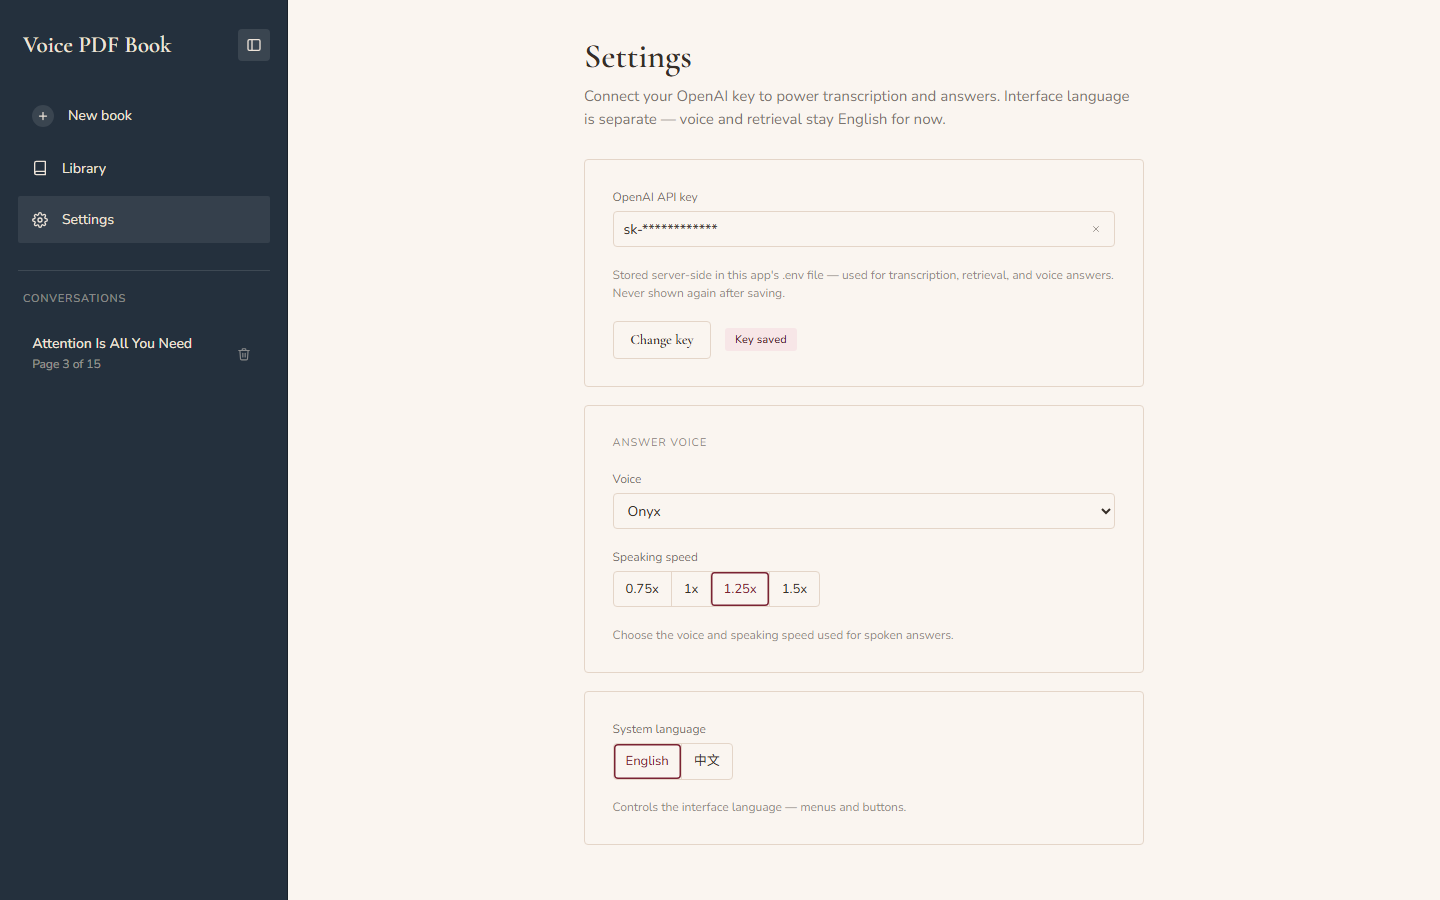
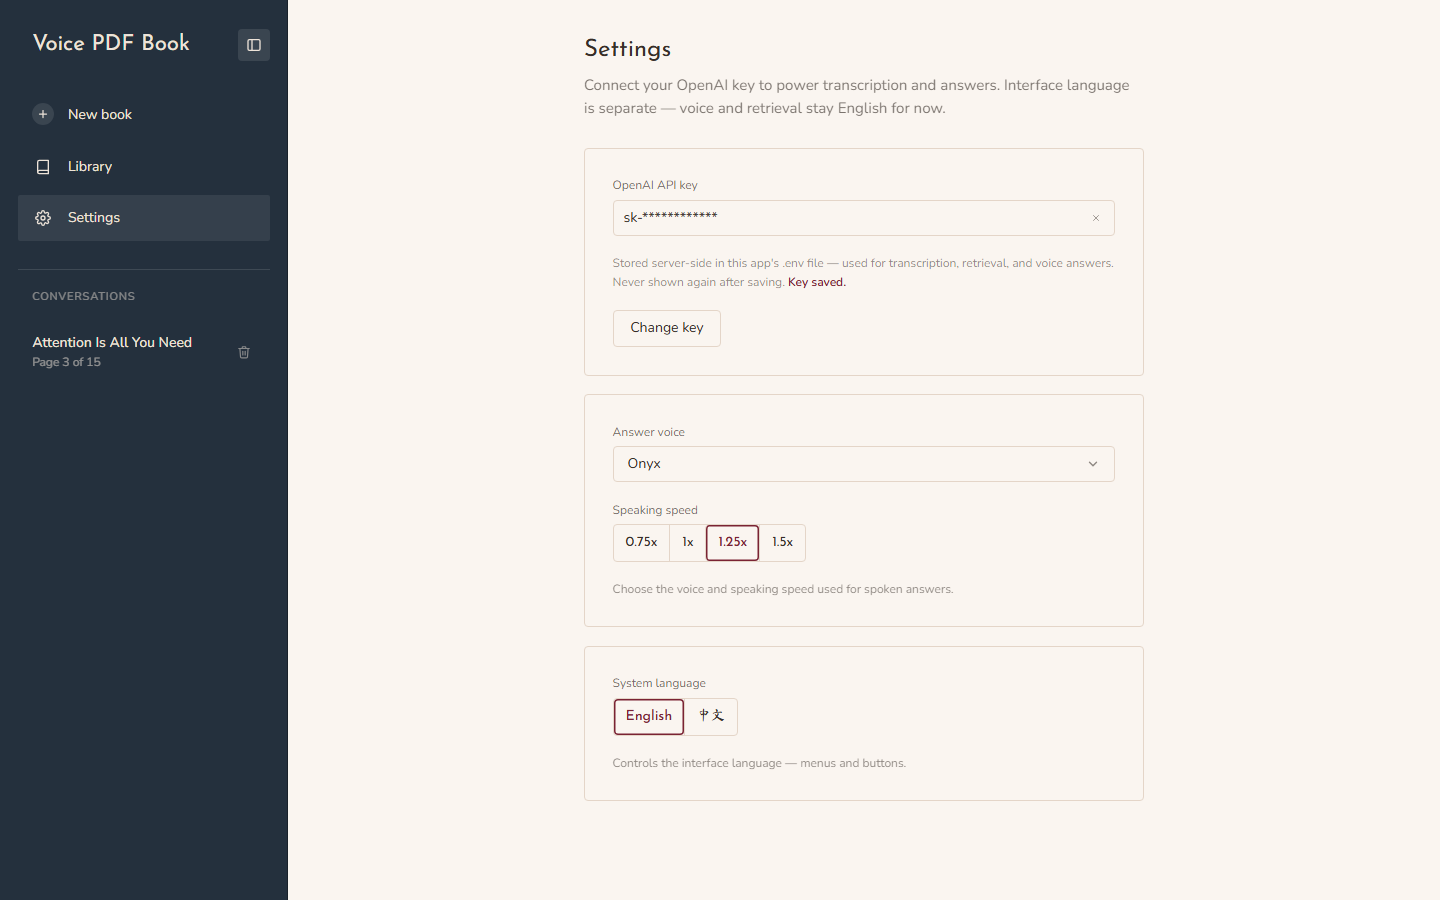
Update README and screenshots for the new UI
Retake all four screenshots, show them one per row, and note where the answer
tone lives. CLAUDE.md's chat-view description now matches the redesigned page.

diff --git a/CLAUDE.md b/CLAUDE.md
@@ -402,11 +402,14 @@ Key structural/visual points to preserve:
   (each entry deletable).
 - Library view: grid of book cards (cover, title, author, page-count tag, progress tag), search
   bar, "Upload PDF" button.
-- Chat view: header shows the open book + current chapter, plus an **"Answer tone" selector**
-  (Concise / Conversational / Scholarly) driving `conversations.answer_tone`. Split panel: left
-  side shows the actual PDF page (rendered image, or styled text excerpt when available, with
-  prev/next page nav); right side is the chat thread. Assistant messages show a citation tag
-  (e.g. "Section 3.2.2, p. 4") and a scrubbable audio player (play/pause, progress bar, duration).
+- Chat view: no top bar -- the sidebar is the only navigation. Split panel (default 50/50,
+  draggable divider): left side shows the actual PDF page (rendered image, with prev/next page
+  nav) under the open book's title and current chapter (top-left); right side is the chat thread
+  and composer. The **"Answer tone" selector** (Concise / Conversational / Scholarly, driving
+  `conversations.answer_tone`) is a compact pill group at the top-left of the chat area,
+  mirroring the book title on the PDF side. Your messages are solid-burgundy bubbles; assistant messages
+  are paper-style cards with clickable citation pills ("3 Model Architecture, p. 3-4", jumps the
+  PDF to that page) and a scrubbable audio player (play/pause, progress bar, duration).
 - Upload dialog: drag-and-drop PDF, "PDF only · up to 200 pages" hint.
 - Settings view, top to bottom: OpenAI API key card (matching the mockup's position at the top) —
   unlike the mockup's copy (which claims the key is "stored only on this device"), the real

diff --git a/README.md b/README.md
@@ -37,15 +37,23 @@ flowchart LR
   older ones, so follow-ups like "why not?" resolve correctly, even right after a refusal.
 - **Citations.** Every answer lists the chapters and pages it drew on; click one to jump the
   PDF viewer to that page.
-- **Answer tone.** Switch between Concise, Conversational and Scholarly per conversation.
+- **Answer tone.** Switch between Concise, Conversational and Scholarly per conversation, from the pills at the top of the chat.
 - **Configurable at runtime.** The OpenAI key, voice and speaking speed are set from the
   Settings page and take effect immediately, with no restart and no hand-editing of `.env`.
 
 ## Screenshots
 
-| Library | Upload |
-|---|---|
-| ![Library](docs/screenshots/library.png) | ![Upload dialog](docs/screenshots/upload.png) |
+### Library
+
+Each book is a card with its first page as the cover.
+
+![Library: each book's first page is its cover](docs/screenshots/library.png)
+
+### Upload
+
+![Upload dialog: drag and drop a PDF](docs/screenshots/upload.png)
+
+### Settings
 
 ![Settings: API key, answer voice and speed, interface language](docs/screenshots/settings.png)
 
